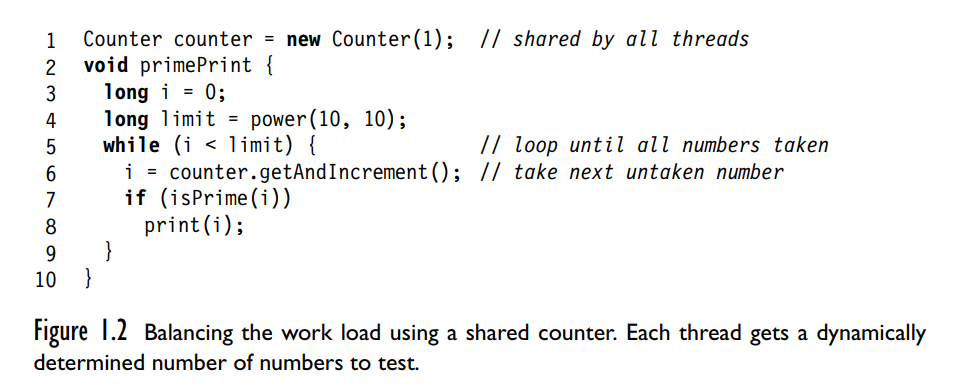
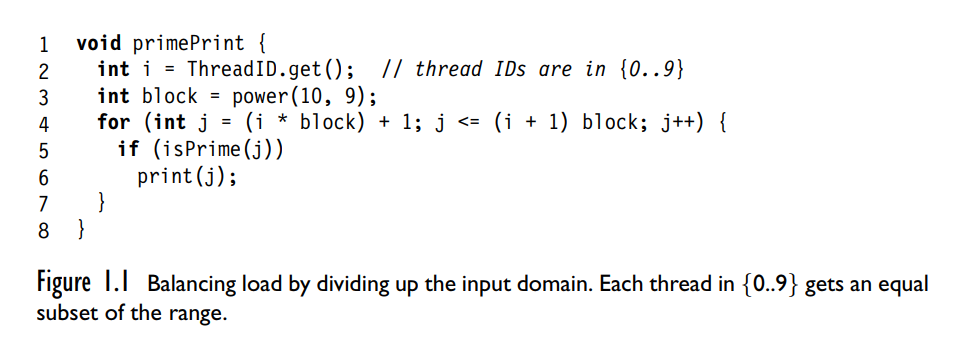
1.2.2 The Moral

Changed region(s): [[0.0311, 0.0625, 0.9647, 0.9688], [0.4979, 0.0625, 0.778, 0.125], [0.0934, 0.5625, 0.249, 0.5938]]

diff --git a/manuscript/chapter1Introduction.md b/manuscript/chapter1Introduction.md
@@ -29,6 +29,23 @@
 作为第一次尝试，您可以考虑为每个线程分配相同的输入域份额。 每个线程可能会检查10的9次方个数字，如图1.1所示。 出于基本但重要的原因，这种方法失败了。 相同范围的投入不一定产生相同数量的工作。 素数不均匀地发生：1到109之间有许多素数，但在9乘以10的9次方到10的10次方之间几乎没有。更糟糕的是，每个素数的计算时间在所有范围内都不相同：通常需要更长的时间来测试是否大数是素数而不是小数。 简而言之，没有理由相信工作将在线程之间平均分配，并且即使哪些线程最有效也不清楚。
 
 ```java
+void primePrint {
+    int i = ThreadID.get(); // thread IDs are in {0..9}
+    int block = power(10, 9);
+    for (int j = (i * block) + 1; j <= (i + 1) block; j++) {
+        if (isPrime(j)) 
+            print(j);
+    }
+}
+``` 
+```
+
+![Figure 1.1 Balancing load by dividing up the input domain. Each thread in {0..9} gets an equal subset of the range. ](https://github.com/mysonhushu/the-art-of-multiprocessor-programming-zh/blob/master/manuscript/images/Figure1-1.png "Figure 1.1 Balancing load by dividing up the input domain. Each thread in {0..9} gets an equal subset of the range.")
+
+
+在线程之间拆分工作的更有前途的方法是一次为每个线程分配一个整数（图1.2）。 当一个线程完成测试整数时，它会要求另一个。 为此，我们引入了一个共享计数器，一个封装整数值的对象，它提供了一个递增其值的 getAndIncrement() 方法，并将计数器的先前值返回给调用者。
+
+```java
 Counter counter = new Counter(1); // shared by all threads
 void primePrint {
     long i = 0;
@@ -42,15 +59,120 @@ void primePrint {
 }
 ```
 
-![Figure 1.1 Balancing load by dividing up the input domain. Each thread in {0..9} gets an equal subset of the range. ](https://github.com/mysonhushu/the-art-of-multiprocessor-programming-zh/blob/master/manuscript/images/Figure1-1.png "Figure 1.1 Balancing load by dividing up the input domain. Each thread in {0..9} gets an equal subset of the range.")
 
 
+![Figure 1.2 Balancing the work load using a shared counter. Each thread gets a dynamically determined number of numbers to test. ](https://github.com/mysonhushu/the-art-of-multiprocessor-programming-zh/blob/master/manuscript/images/Figure1-2.png "Figure 1.2 Balancing the work load using a shared counter. Each thread gets a dynamically determined number of numbers to test.")
 
 
+图1.3显示了Java中的Counter的自然实现。 这个计数器实现在单个线程使用时运行良好，但在多个线程共享时失败。 问题在于表达方式:
+
+```java
+return value++;
+```
+
+实际上是以下更复杂代码的缩写：
+
+```java
+long temp = value;
+value = temp + 1;
+return temp;
+```
+
+在此代码片段中，value是Counter对象的成员变量，并在所有线程之间共享。 但是，每个线程都有自己的temp本地副本，它是每个线程的局部变量。
+
+```java
+public class Counter {
+    private long value; // counter starts at one
+    public Counter(int i) { // constructor initializes counter
+        value = i;
+    }
+
+    public long getAndIncrement() { // increment, returning prior value
+        return value++;
+    }
+}
+```
 
 
+![Figure 1.3 An implementation of the shared counter](https://github.com/mysonhushu/the-art-of-multiprocessor-programming-zh/blob/master/manuscript/images/Figure1-3.png "Figure 1.3 An implementation of the shared counter")
 
 
+现在假设线程 A 和 B 几乎同时调用计数器的 getAndIncrement() 方法。 它们可能同时从 value 读取1，将其本地临时变量设置为1，将 value 设置为2，并且都返回1.此行为不是我们想要的：对计数器的 getAndIncrement() 的并发调用返回相同的值，但我们期望它们返回不同的值。 事实上，它可能会变得更糟。 一个线程可能从 value 读取1，但在将 value 设置为2之前，另一个线程将多次通过增量循环，读取 1 并设置为 2，读取 2 并设置为 3.当第一个线程最终完成其操作时, 将 value 设置为2，它实际上将计数器从 3 设置为 2。
+
+问题的核心是递增计数器的值需要对共享变量进行两个不同的操作：将值字段读入临时变量并将其写回Counter对象。
+
+当你试图让一个人在走廊里正面接近你时会发生类似的事情。 您可能会发现自己正确转向，然后离开几次以避免其他人做同样的事情。 有时你会设法避免撞到它们，有时你却不会碰到它们，事实上，正如我们在后面的章节中看到的那样，这种冲突现象是不可避免的。 在一个直观的层面上，正在发生的事情是你们每个人都在执行两个不同的步骤：查看（“阅读”）对方的当前位置，以及移动（“书写”）到一侧或另一侧。 问题是，当你读到对方的位置时，你无法知道他们是否决定原地不动还是移动到另一侧。 就像你和烦人的陌生人必须决定谁走左边,谁走右边一样，访问共享计数器的线程必须决定谁先执行，谁后执行。
+
+正如我们将在第5章中看到的那样，现代多处理器硬件提供了特殊的读 - 修改 - 写指令(read-modify-write instructions)，允许线程在一个原子（即不可分割的）硬件步骤中读取，修改和写入存储器的值。 对于 Counter 对象，我们可以使用这样的硬件以原子方式递增计数器
+
+我们还可以通过在软件中保证（仅使用读和写指令）来提供这样的原子行为，即一次只有一个线程执行读写序列。 确保一次只有一个线程可以执行特定代码块的问题称为互斥问题，并且是多处理器编程中的经典协调问题之一。
+
+实际上，您不太可能发现自己必须设计自己的互斥算法（相反，您可能会调用库）。 然而，理解如何从基础中实现互斥是一般理解并发计算的必要条件。 没有更有效的方法来学习如何推理基本和无处不在的问题，例如互斥，死锁，有限公平，阻塞与非阻塞同步。
+
+## 1.2 A Fable
+
+我们不将协调问题（例如互斥）视为编程练习，而是将并发协调问题视为物理问题。 现在我们通过一系列寓言，说明一些基本问题。 像大多数寓言作者一样，我们重述了其他人发明的故事（参见本章末尾的章节注释）。
+
+爱丽丝和鲍勃是邻居，他们共用一个院子。 爱丽丝拥有一只猫，鲍勃拥有一只狗。 两只宠物都喜欢在院子里跑来跑去，但（自然地）他们不相处。 在一些不幸的经历之后，爱丽丝和鲍勃同意他们应该协调以确保两只宠物永远不会同时在院子里。 当然，我们排除了不允许任何动物进入空院子的暴力解决方案。
+
+他们应该怎么做？ 爱丽丝和鲍勃需要就相互兼容的程序达成一致，以决定做什么。 我们称这样的协议为协调协议（或简称协议）。
+
+院子很大，所以爱丽丝不能简单地向窗外看，看看鲍勃的狗是否在场。 她也许可以走到鲍勃的家里敲门，但这需要很长时间，如果下雨会怎么样？ 爱丽丝可能会向窗外倾斜并大喊“嘿鲍勃！ 我可以让猫出去吗？“问题是鲍勃可能听不到她的声音。 他可能正在看电视，拜访他的女朋友，或外出购买狗粮。 他们可以尝试通过手机进行协调，但如果鲍勃正在洗澡，开车穿过隧道或给手机电池充电，也会遇到同样的困难。
+
+爱丽丝有一个聪明的主意。 她在鲍勃的窗台上放了一个或多个空啤酒罐（图1.4），在每个窗台上绑一根绳子，然后把绳子放回她家。 鲍勃也这样做。 当她想向鲍勃发送信号时，她猛拉绳子敲击其中一个罐头。 当鲍勃注意到一个罐子被撞倒时，他重置了罐头。
+
+
+![Figure 1.4 Communicating with cans](https://github.com/mysonhushu/the-art-of-multiprocessor-programming-zh/blob/master/manuscript/images/Figure1-4.png "Figure 1.4 Communicating with cans")
+
+它仍然存在严重缺陷。 问题是，爱丽丝只能在鲍勃的窗台上放置有限数量的罐头，迟早，她将用尽罐头来敲门。 当然，鲍勃在注意到它被击倒后立即重置了一个罐子，但是如果他去春游了呢？ 只要爱丽丝依赖鲍勃来重置啤酒罐，她迟早会跑出去。
+
+所以爱丽丝和鲍勃尝试了不同的方法。 每一个都设置一个旗杆，容易看到另一个。 当爱丽丝想要释放她的猫时，她会做以下事情：
+
+1. 她升起她的旗帜。
+2. 当鲍勃的旗帜降下来时，她释放了她的猫。
+3. 当她的猫回来时，她降下她的旗帜。
+
+鲍勃的行为有点复杂。
+
+1. 他升起他的旗帜。
+2. 当爱丽丝的起至也升起的时候。
+   - 鲍勃降下自己的旗帜。
+   - 鲍勃原地等待，直到爱丽丝的旗帜降下来。
+　 - 鲍勃保持他的旗帜一直升起。
+3. 一旦他的旗帜升起并且她的旗帜下降，他就会释放他的狗。
+4.  当他的狗回来时，他降下他的旗帜。
+
+该协议奖励进一步研究作为爱丽丝和鲍勃问题的解决方案。 在直观的层面上，它的工作原理是以下标志原则。 如果爱丽丝和鲍勃各自
+
+1. 升起他们自己的旗帜之后，马上
+2. 看看对方的旗帜是否升起
+
+然后至少有一个会看到对方的旗帜升起（显然，最后一个看起来会看到对方的旗帜升起）并且不会让他或她的宠物进入院子。 然而，这种观察并不能证明宠物永远不会在院子里。 例如，如果爱丽丝在鲍勃看的时候让她的猫进出院子几次怎么办？
+
+为了证明宠物永远不会在院子里一起，通过矛盾的方式假设宠物可以一起最终进入院子里。 考虑上一次爱丽丝和鲍勃各自举起旗帜，看着对方的旗帜，然后将宠物送到院子里。 当爱丽丝最后看时，她的旗帜已经完全抬起。 她一定没看过鲍勃的旗帜，或者她不会释放猫，所以鲍勃在爱丽丝开始寻找之前一定还没有完成他的旗帜。 因此，当鲍勃最后一次看到，在举起旗帜之后，一定是在爱丽丝开始寻找之后，所以他一定看到爱丽丝的旗帜升起并且不会释放他的狗，这是一个矛盾。
+
+这种矛盾的论证一再出现，值得花一些时间说服自己为什么这种说法是正确的。 值得注意的是，我们从未假设“升起我的旗帜”或“看着你的旗帜”瞬间发生，我们也没有假设这些活动需要多长时间。 我们关心的是这些活动何时开始或结束。
+
+### 1.2.1 Properties of Mutual Exclusion
+
+为了表明标志协议是解决爱丽丝和鲍勃问题的正确方法，我们必须了解解决方案需要哪些属性，然后证明协议满足它们。
+
+首先，我们证明了宠物被排除在院子里的同时，我们称之为互斥的属性。
+
+相互排斥只是感兴趣的几个属性之一。 毕竟，正如我们前面提到的，爱丽丝和鲍勃永远不会释放宠物的协议满足互斥属性，但不太可能满足他们的宠物。 这是另一个至关重要的属性。 首先，如果一只宠物想要进入院子，那么它最终会成功。 其次，如果两只宠物都想要进入院子，那么最终其中至少只有一只能成功。 我们认为这种死锁自由属性(deadlock-freedom property)是必要。
+
+我们声称爱丽丝和鲍勃的协议没有死锁(deadlock-free)。 假设两只宠物都想使用院子。 爱丽丝和鲍勃各自升起了旗帜。 鲍勃最终注意到爱丽丝的旗帜升起，又慢慢降下了旗帜，从而没有让她的猫进入院子。
+
+
+引人注目的另一个特性是饥饿自由 starvation-freedom（有时称为锁定自由 lockout-freedom）：如果宠物想要进入院子，它最终会成功吗？ 在这里，爱丽丝 和 鲍勃 的协议表现不佳。 每当爱丽丝和鲍勃发生冲突时，鲍勃都会向爱丽丝妥协，因此爱丽丝的猫可能一遍又一遍地使用院子，而鲍勃的狗变得越来越不爽。 稍后，我们将看到如何使协议防止饥饿。
+
+感兴趣的最后一个属性是等待。 想象一下，爱丽丝举起她的旗帜，然后突然患上了阑尾炎。 她（和猫）被送往医院，手术成功后，接下来的一周她將在医院接受观察。 虽然鲍勃很放心，爱丽丝很好，他的狗直到爱丽丝回来，才能使用院子一整个星期。 问题是协议规定鲍勃（和他的狗）必须等待爱丽丝降低她的旗帜。 如果爱丽丝被延迟（即使有充分理由），那么鲍勃也会被推迟（没有明显的理由）。
+
+作为容错(fault-tolerance)的一个例子，等待的问题很重要。 通常情况下，我们希望爱丽丝和鲍勃在合理的时间内相互回应，但如果他们不这样做会怎么样？ 从本质上讲，互斥问题需要等待：无论互相排斥协议多么聪明，都不会避免它。 然而，我们看到许多其他协调问题可以在不等待的情况下解决，有时候是以意想不到的方式。
+
+### 1.2.2 The Moral
+
+在回顾了Bob和Alice的协议的优点和缺点之后，我们现在将注意力转回到计算机科学。
 
 
 
